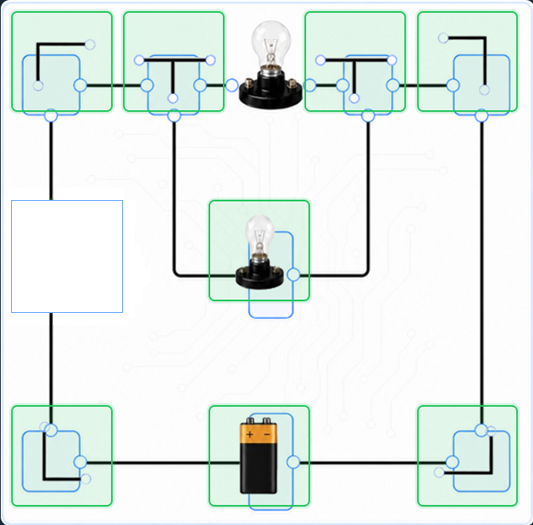
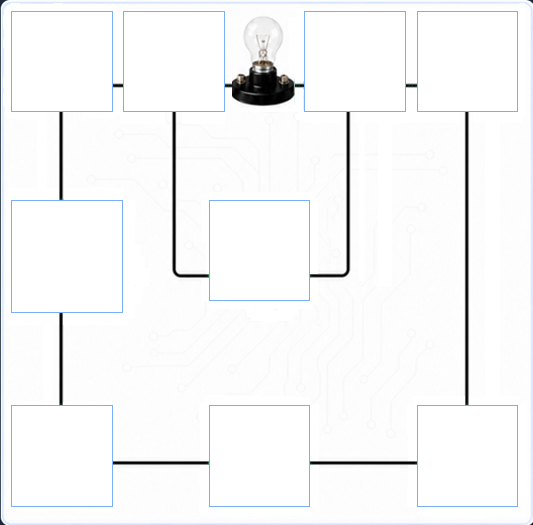
fix: boton probar nivel 2, typo RECORDA, glow lampara centrado por nivel

diff --git a/game.js b/game.js
@@ -46,18 +46,16 @@ const LEVELS = {
     subtitle:      'Nivel 2 — Circuito en Paralelo',
     slotGroupId:   'level2-slots',
     slots: {
-      // Same corner orientation rules as level 1
-      'p-slot-corner-tl':     { correctPiece: 'corner',  rotation: -90 },  // 90° izquierda
-      'p-slot-pline-left':    { correctPiece: 'pline',   rotation:   0 },
-      'p-slot-pline-right':   { correctPiece: 'pline',   rotation:   0 },
-      'p-slot-corner-tr':     { correctPiece: 'corner',  rotation:   0 },  // base, sin rotar
-      'p-slot-mid-left':      { correctPiece: 'switch',  rotation:   0 },
-      'p-slot-corner-mr-top': { correctPiece: 'corner',  rotation:  90 },  // 90° derecha
-      'p-slot-lamp-center':   { correctPiece: 'lamp',    rotation:   0 },
-      'p-slot-corner-mr-bot': { correctPiece: 'corner',  rotation: 180 },  // 180°
-      'p-slot-corner-bl':     { correctPiece: 'corner',  rotation: 180 },  // 180°
-      'p-slot-battery':       { correctPiece: 'battery', rotation:   0 },
-      'p-slot-corner-br':     { correctPiece: 'corner',  rotation:  90 },  // 90° derecha
+      // 4 corners at the 4 vertices (same orientation rules as level 1)
+      'p-slot-corner-tl':  { correctPiece: 'corner',  rotation: -90 },  // 90° izquierda
+      'p-slot-pline-left': { correctPiece: 'pline',   rotation:   0 },
+      'p-slot-pline-right':{ correctPiece: 'pline',   rotation:   0 },
+      'p-slot-corner-tr':  { correctPiece: 'corner',  rotation:   0 },  // base, sin rotar
+      'p-slot-mid-left':   { correctPiece: 'switch',  rotation:   0 },
+      'p-slot-lamp-center':{ correctPiece: 'lamp',    rotation:   0 },
+      'p-slot-corner-bl':  { correctPiece: 'corner',  rotation: 180 },  // 180°
+      'p-slot-battery':    { correctPiece: 'battery', rotation:   0 },
+      'p-slot-corner-br':  { correctPiece: 'corner',  rotation:  90 },  // 90° derecha
     },
     bank: {
       lamp:    { file: 'lamp.png',          totalCount: 1, label: 'Lámpara'   },
@@ -140,9 +138,22 @@ function updateLevelUI(level) {
   document.getElementById('level1-slots').classList.toggle('hidden', level !== 1);
   document.getElementById('level2-slots').classList.toggle('hidden', level !== 2);
 
-  // Reset glow
+  // Reset glow and reposition for this level's fixed lamp
   const glow = document.getElementById('lamp-fixed-glow');
   glow.classList.remove('lit');
+  if (level === 1) {
+    // serial_circuit.png — lamp is at ~38% from left
+    glow.style.left   = '28%';
+    glow.style.top    = '0%';
+    glow.style.width  = '20%';
+    glow.style.height = '18%';
+  } else {
+    // parallel_circuit.png — lamp center at ~49% x, ~17% y
+    glow.style.left   = '38%';
+    glow.style.top    = '5%';
+    glow.style.width  = '24%';
+    glow.style.height = '20%';
+  }
 
   // Update level pills
   for (let i = 1; i <= 2; i++) {

diff --git a/index.html b/index.html
@@ -66,9 +66,7 @@
           <div class="drop-slot" id="p-slot-pline-right"    data-slot="p-slot-pline-right"></div>
           <div class="drop-slot" id="p-slot-corner-tr"      data-slot="p-slot-corner-tr"></div>
           <div class="drop-slot" id="p-slot-mid-left"       data-slot="p-slot-mid-left"></div>
-          <div class="drop-slot" id="p-slot-corner-mr-top"  data-slot="p-slot-corner-mr-top"></div>
           <div class="drop-slot" id="p-slot-lamp-center"    data-slot="p-slot-lamp-center"></div>
-          <div class="drop-slot" id="p-slot-corner-mr-bot"  data-slot="p-slot-corner-mr-bot"></div>
           <div class="drop-slot" id="p-slot-corner-bl"      data-slot="p-slot-corner-bl"></div>
           <div class="drop-slot" id="p-slot-battery"        data-slot="p-slot-battery"></div>
           <div class="drop-slot" id="p-slot-corner-br"      data-slot="p-slot-corner-br"></div>
@@ -194,7 +192,7 @@
 
       <!-- Message -->
       <div class="splash-message">
-        <p class="splash-remember">RECARDÁ,</p>
+        <p class="splash-remember">RECORDÁ,</p>
         <p class="splash-sub">que no solo estás jugando,</p>
         <p class="splash-sub">estás <span class="splash-highlight">aprendiendo</span>.</p>
       </div>

diff --git a/style.css b/style.css
@@ -294,9 +294,7 @@ body {
 #p-slot-pline-right  { left: 57%;  top: 2%;   width: 19%; aspect-ratio: 1; }
 #p-slot-corner-tr    { left: 78%;  top: 2%;   width: 19%; aspect-ratio: 1; }
 #p-slot-mid-left     { left: 2%;   top: 38%;  width: 21%; aspect-ratio: 1; }
-#p-slot-corner-mr-top{ left: 78%;  top: 26%;  width: 19%; aspect-ratio: 1; }
 #p-slot-lamp-center  { left: 39%;  top: 38%;  width: 19%; aspect-ratio: 1; }
-#p-slot-corner-mr-bot{ left: 78%;  top: 52%;  width: 19%; aspect-ratio: 1; }
 #p-slot-corner-bl    { left: 2%;   top: 77%;  width: 19%; aspect-ratio: 1; }
 #p-slot-battery      { left: 39%;  top: 77%;  width: 19%; aspect-ratio: 1; }
 #p-slot-corner-br    { left: 78%;  top: 77%;  width: 19%; aspect-ratio: 1; }
